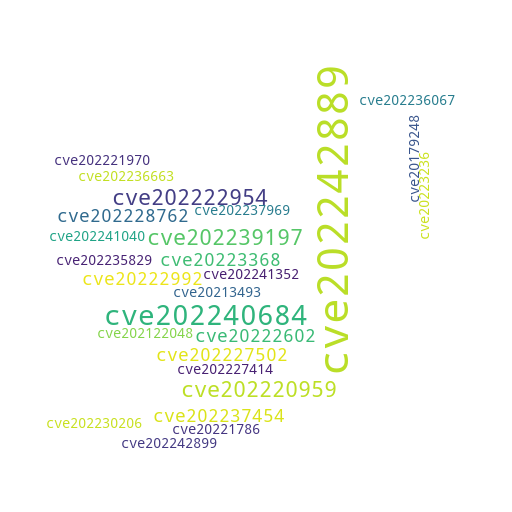
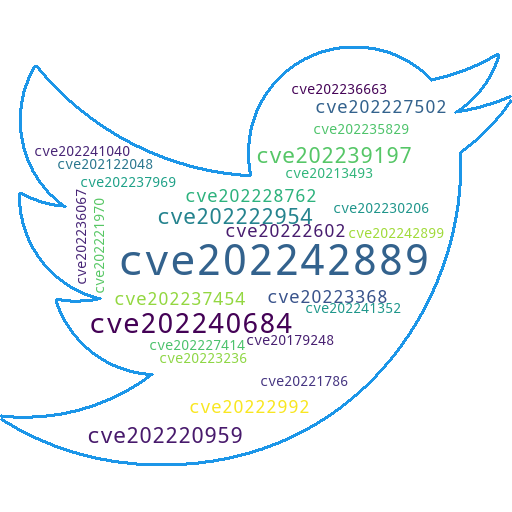
fix color

diff --git a/apps/trends.py b/apps/trends.py
@@ -44,21 +44,21 @@ with st.container():
     g1, g2, g3 = st.columns((1,1,1))
     with g1:
         fig = px.bar(ldf[0], x = 'date', y='freq', template = 'seaborn')
-        fig.update_traces(marker_color='#264653')
+        fig.update_traces(marker_color='#D65050')
         fig.update_layout(title_x=0,margin= dict(l=0,r=10,b=10,t=0), yaxis_title=None, xaxis_title=None, width=300, height=300)
         g1.markdown(f"<h4 style='text-align: center;'>{list_cve[0].upper()}</h2>", unsafe_allow_html=True)
         g1.plotly_chart(fig, use_container_width=True) 
     
     with g2:
         fig = px.bar(ldf[1], x = 'date', y='freq', template = 'seaborn')
-        fig.update_traces(marker_color='#264653')
+        fig.update_traces(marker_color='#D65050')
         fig.update_layout(title_x=0,margin= dict(l=0,r=10,b=10,t=0), yaxis_title=None, xaxis_title=None, width=300, height=300)
         g2.markdown(f"<h4 style='text-align: center;'>{list_cve[1].upper()}</h2>", unsafe_allow_html=True)
         g2.plotly_chart(fig, use_container_width=True) 
     
     with g3:
         fig = px.bar(ldf[2], x = 'date', y='freq', template = 'seaborn')
-        fig.update_traces(marker_color='#264653')
+        fig.update_traces(marker_color='#D65050')
         fig.update_layout(title_x=0,margin= dict(l=0,r=10,b=10,t=0), yaxis_title=None, xaxis_title=None, width=300, height=300)
         g3.markdown(f"<h4 style='text-align: center;'>{list_cve[2].upper()}</h2>", unsafe_allow_html=True)
         g3.plotly_chart(fig, use_container_width=True) 
@@ -68,7 +68,7 @@ with st.container():
     g1, g2, g3 = st.columns((1,1,1))
     with g1:
         fig = px.bar(ldf[3], x = 'date', y='freq', template = 'seaborn')
-        fig.update_traces(marker_color='#264653')
+        fig.update_traces(marker_color='#D65050')
         fig.update_layout(title_x=0,margin= dict(l=0,r=10,b=10,t=0), yaxis_title=None, xaxis_title=None, width=300, height=300)
         g1.markdown(f"<h4 style='text-align: center;'>{list_cve[3].upper()}</h2>", unsafe_allow_html=True)
         g1.plotly_chart(fig, use_container_width=True) 
@@ -84,7 +84,7 @@ with st.container():
 
     with g3:
         fig = px.bar(ldf[4], x = 'date', y='freq', template = 'seaborn')
-        fig.update_traces(marker_color='#264653')
+        fig.update_traces(marker_color='#D65050')
         fig.update_layout(title_x=0,margin= dict(l=0,r=10,b=10,t=0), yaxis_title=None, xaxis_title=None, width=300, height=300)
         g3.markdown(f"<h4 style='text-align: center;'>{list_cve[4].upper()}</h2>", unsafe_allow_html=True)
         g3.plotly_chart(fig, use_container_width=True) 
@@ -94,21 +94,21 @@ with st.container():
     g1, g2, g3 = st.columns((1,1,1))
     with g1:
         fig = px.bar(ldf[5], x = 'date', y='freq', template = 'seaborn')
-        fig.update_traces(marker_color='#264653')
+        fig.update_traces(marker_color='#D65050')
         fig.update_layout(title_x=0,margin= dict(l=0,r=10,b=10,t=0), yaxis_title=None, xaxis_title=None, width=300, height=300)
         g1.markdown(f"<h4 style='text-align: center;'>{list_cve[5].upper()}</h2>", unsafe_allow_html=True)
         g1.plotly_chart(fig, use_container_width=True) 
     
     with g2:
         fig = px.bar(ldf[6], x = 'date', y='freq', template = 'seaborn')
-        fig.update_traces(marker_color='#264653')
+        fig.update_traces(marker_color='#D65050')
         fig.update_layout(title_x=0,margin= dict(l=0,r=10,b=10,t=0), yaxis_title=None, xaxis_title=None, width=300, height=300)
         g2.markdown(f"<h4 style='text-align: center;'>{list_cve[6].upper()}</h2>", unsafe_allow_html=True)
         g2.plotly_chart(fig, use_container_width=True) 
     
     with g3:
         fig = px.bar(ldf[7], x = 'date', y='freq', template = 'seaborn')
-        fig.update_traces(marker_color='#264653')
+        fig.update_traces(marker_color='#D65050')
         fig.update_layout(title_x=0,margin= dict(l=0,r=10,b=10,t=0), yaxis_title=None, xaxis_title=None, width=300, height=300)
         g3.markdown(f"<h4 style='text-align: center;'>{list_cve[7].upper()}</h2>", unsafe_allow_html=True)
         g3.plotly_chart(fig, use_container_width=True) 

diff --git a/apps/func.py b/apps/func.py
@@ -97,7 +97,7 @@ def get_cve_wc(df=df, startdate=startday, enddate=endday,k=8):
 
     image = 'images/twitterlogo.png'
     mask = np.array(Image.open(image))
-    iwc = WordCloud(background_color="white", max_words=2000, mask=mask, collocations=False)
+    iwc = WordCloud(background_color="white", max_words=2000, mask=mask, collocations=False, contour_color='#1c96e8', contour_width=1.5)
     iwc.generate(' '.join(wc))
     iwc.to_file('images/twitter_wordcloud2.png')
     # print('Wordcloud saved to images/twitter_wordcloud2.png')

diff --git a/apps/graph.py b/apps/graph.py
@@ -14,6 +14,7 @@ import streamlit as st
 import altair as alt
 from apps.func import get_content_dt, get_cve_topk
 
-t1, wc, t2 = st.columns((0.5,2,0.5))
-
+t1, wc, t2 = st.columns((0.75,2,0.75))
+title = 'Under Development'
+wc.markdown(f"<h2 style='text-align: center;'>{title}</h2>", unsafe_allow_html=True)
 wc.image('images/dvl.png', use_column_width=True)

diff --git a/app.py b/app.py
@@ -41,7 +41,7 @@ st.markdown(hide_streamlit_style, unsafe_allow_html=True)
 current_path = Path(__file__).parent.absolute()
 
 # Streamit book properties
-stb.set_book_config(menu_title="Main Menu",
+stb.set_book_config(menu_title="Navigator",
                     menu_icon="",
                     options=[
                             "Trends",
